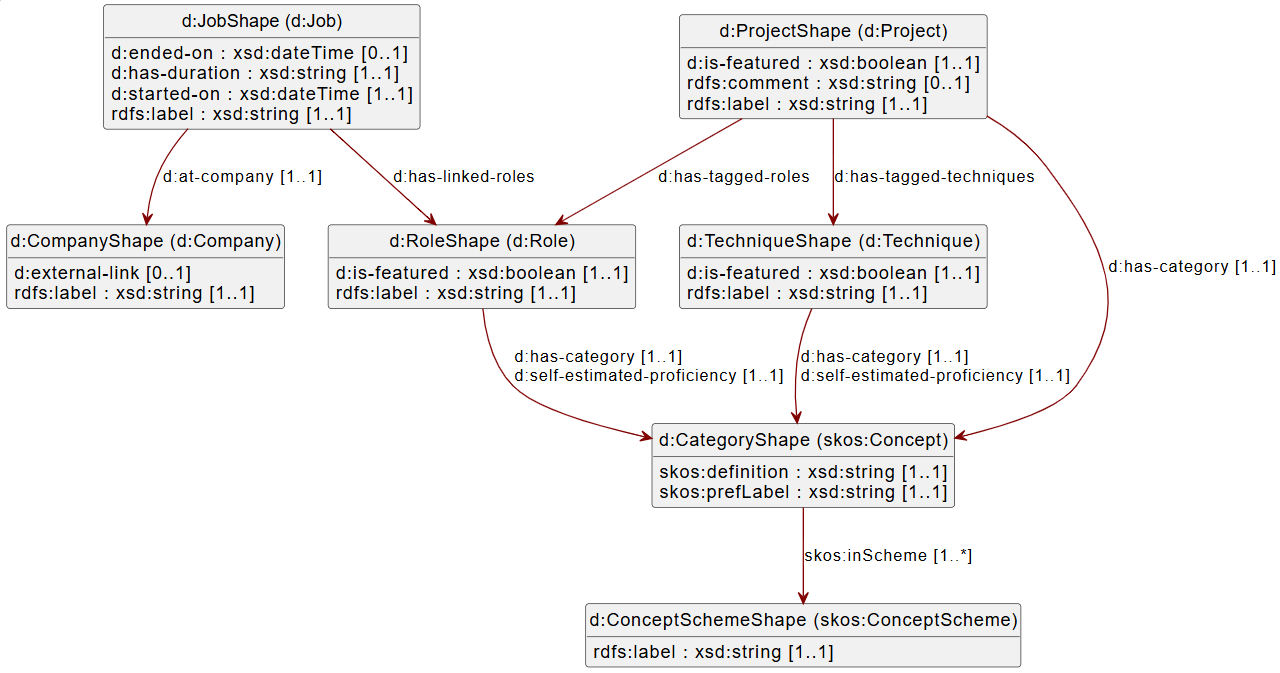
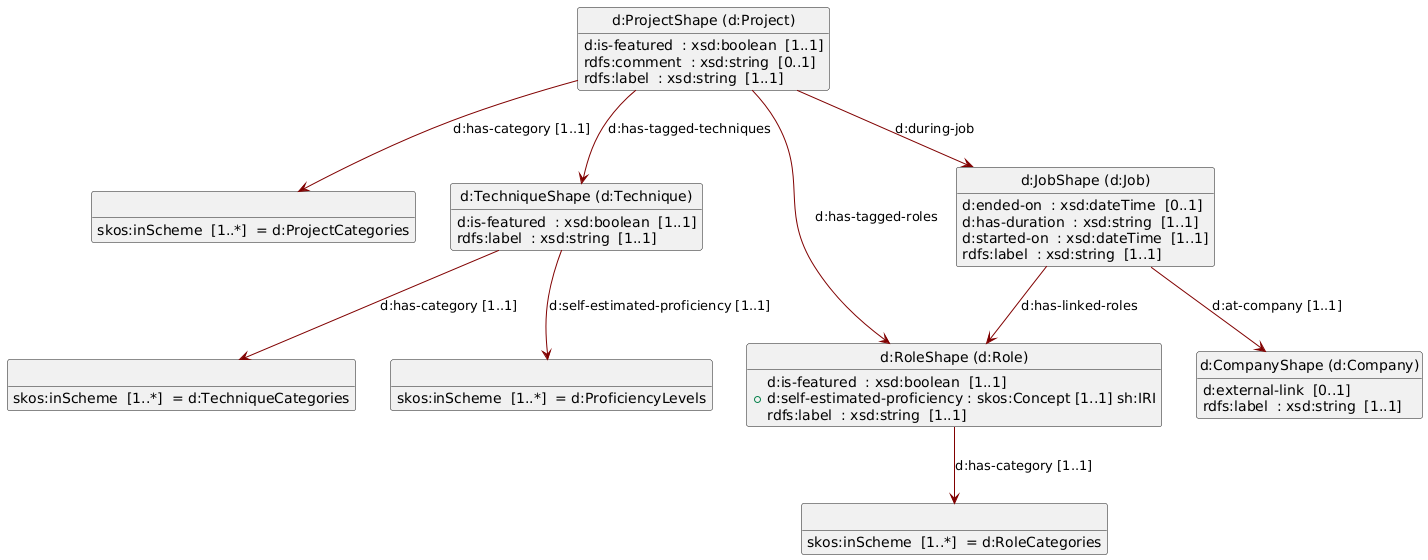
feat: improved shacl validation

diff --git a/kg-actions/shapes-explaination.md b/kg-actions/shapes-explaination.md
@@ -4,46 +4,54 @@ This SHACL shapes file defines validation rules for different entity types in th
 
 ## Projects
 
-- Must have a label
-- Must have exactly one category (SKOS concept)
-- Must have is-featured boolean flag
-- Can have multiple techniques and roles
-- Optional description
+- Must have exactly one label (string)
+- Must have exactly one category that is a SKOS concept from ProjectCategories scheme
+- Must have exactly one is-featured boolean flag
+- Can link to Job instances via during-job
+- Can have multiple techniques and roles via has-tagged-techniques/roles
+- Can have one description (comment)
 
 ## Techniques
 
-- Must have a label 
-- Must have exactly one category
-- Must have is-featured flag
-- Must have exactly one proficiency level
+- Must have exactly one label (string)
+- Must have exactly one category that is a SKOS concept from TechniqueCategories scheme
+- Must have exactly one is-featured flag
+- Must have exactly one proficiency level from ProficiencyLevels scheme
 
 ## Roles
 
-- Must have a label
-- Must have exactly one category 
-- Must have is-featured flag
+- Must have exactly one label (string)
+- Must have exactly one category that is a SKOS concept from RoleCategories scheme  
+- Must have exactly one is-featured flag
 - Must have exactly one proficiency level
 
 ## Companies
 
-- Must have a label
-- Can have one external link
+- Must have exactly one label (string)
+- Can have one external link (must be IRI)
 
 ## Jobs
 
-- Must have a label
-- Must have exactly one company
-- Must have start date (xsd:dateTime format)
-- Can have end date (xsd:dateTime format)
-- Must have duration
+- Must have exactly one label (string)
+- Must have exactly one company reference
+- Must have exactly one start date (dateTime)
+- Can have one end date (dateTime)
+- Must have exactly one duration string
 - Can have multiple linked roles
 
 ## SKOS Categories
 
-- Must have exactly one preferred label
+- Must have exactly one preferred label (string)
 - Must belong to at least one concept scheme
-- Can have one definition
+- Can have one definition (string)
 
 ## SKOS Concept Schemes
 
-- Must have exactly one label
+- Must have exactly one label (string)
+
+The shapes enforce data quality by:
+- Validating cardinality constraints (minCount/maxCount)
+- Checking data types (string, boolean, dateTime, IRI)
+- Ensuring category membership in correct concept schemes
+- Validating class relationships between entities
+- Enforcing consistent proficiency level usage

diff --git a/pages/Train alert system.md b/pages/Train alert system.md
@@ -6,7 +6,7 @@ has-tagged-techniques:: #[[C#]], #ClickOnce, #Railway, #Git, #[[Gitlab CI CD]], 
 has-tagged-roles:: #[[Project lead]], #[[Data architect]], #[[Business analyst]] 
 has-linked-projects:: #[[GPS trackers for mobile safety equipment]] 
 is-featured:: No
-during-job:: #[[Job: Project lead SMILE 2.0]]
+during-job:: #[[Job: Project lead SMILE]]
 
 - ![image.png](../assets/image_1731847438762_0.png)
 - ![image.png](../assets/image_1731847459936_0.png)

diff --git a/pages/GPS trackers for mobile safety equipment.md b/pages/GPS trackers for mobile safety equipment.md
@@ -6,7 +6,7 @@ has-tagged-techniques:: #GNSS, #Git, #[[Gitlab CI CD]], #[[C#]], #[[JSON API]], 
 has-tagged-roles:: #Developer, #[[Project lead]], #[[Business analyst]] 
 has-linked-projects:: #[[Train alert system]] 
 is-featured:: Yes
-during-job:: #[[Job: Project lead SMILE 2.0]]
+during-job:: #[[Job: Project lead SMILE]]
 
 - ![Nieuwe tracker.jpg](../assets/Nieuwe_tracker_1731863475973_0.jpg)
 - ![image.png](../assets/image_1731863489701_0.png)

diff --git a/pages/Data integration of old track tamper machines.md b/pages/Data integration of old track tamper machines.md
@@ -6,6 +6,6 @@ has-tagged-techniques:: #SSH, #[[Reverse proxy]], #GNSS, #Azure
 has-tagged-roles:: #Developer, #Technician, #[[Project lead]] 
 has-linked-projects:: #[[Linear measurement data viewer]] 
 is-featured:: Yes
-during-job:: #[[Job: Project lead SMILE 2.0]]
+during-job:: #[[Job: Project lead SMILE]]
 
 - ![Tamping flow.png](../assets/Tamping_flow_1731863920122_0.png)

diff --git a/pages/Strategic project reporting.md b/pages/Strategic project reporting.md
@@ -6,6 +6,6 @@ has-tagged-techniques:: #Qlikview, #[[MS Project]], #Postgresql, #Dbeaver, #[[Pr
 has-tagged-roles:: #[[Project lead]], #[[Business analyst]], #[[Data architect]], #Developer
 has-linked-projects:: #[[Setup PMO office]]
 is-featured:: Yes
-during-job:: #[[Job: Project lead SMILE 2.0]]
+during-job:: #[[Job: Project lead SMILE]]
 
 -

diff --git a/pages/Setup PMO office.md b/pages/Setup PMO office.md
@@ -6,4 +6,4 @@ has-tagged-techniques:: #[[Project management]], #[[MS Project]], #[[Data centri
 has-tagged-roles:: #[[Project lead]], #[[Business analyst]] 
 has-linked-projects:: #[[Strategic project reporting]] 
 is-featured:: Yes
-during-job:: #[[Job: Project lead SMILE 2.0]]
+during-job:: #[[Job: Project lead SMILE]]
